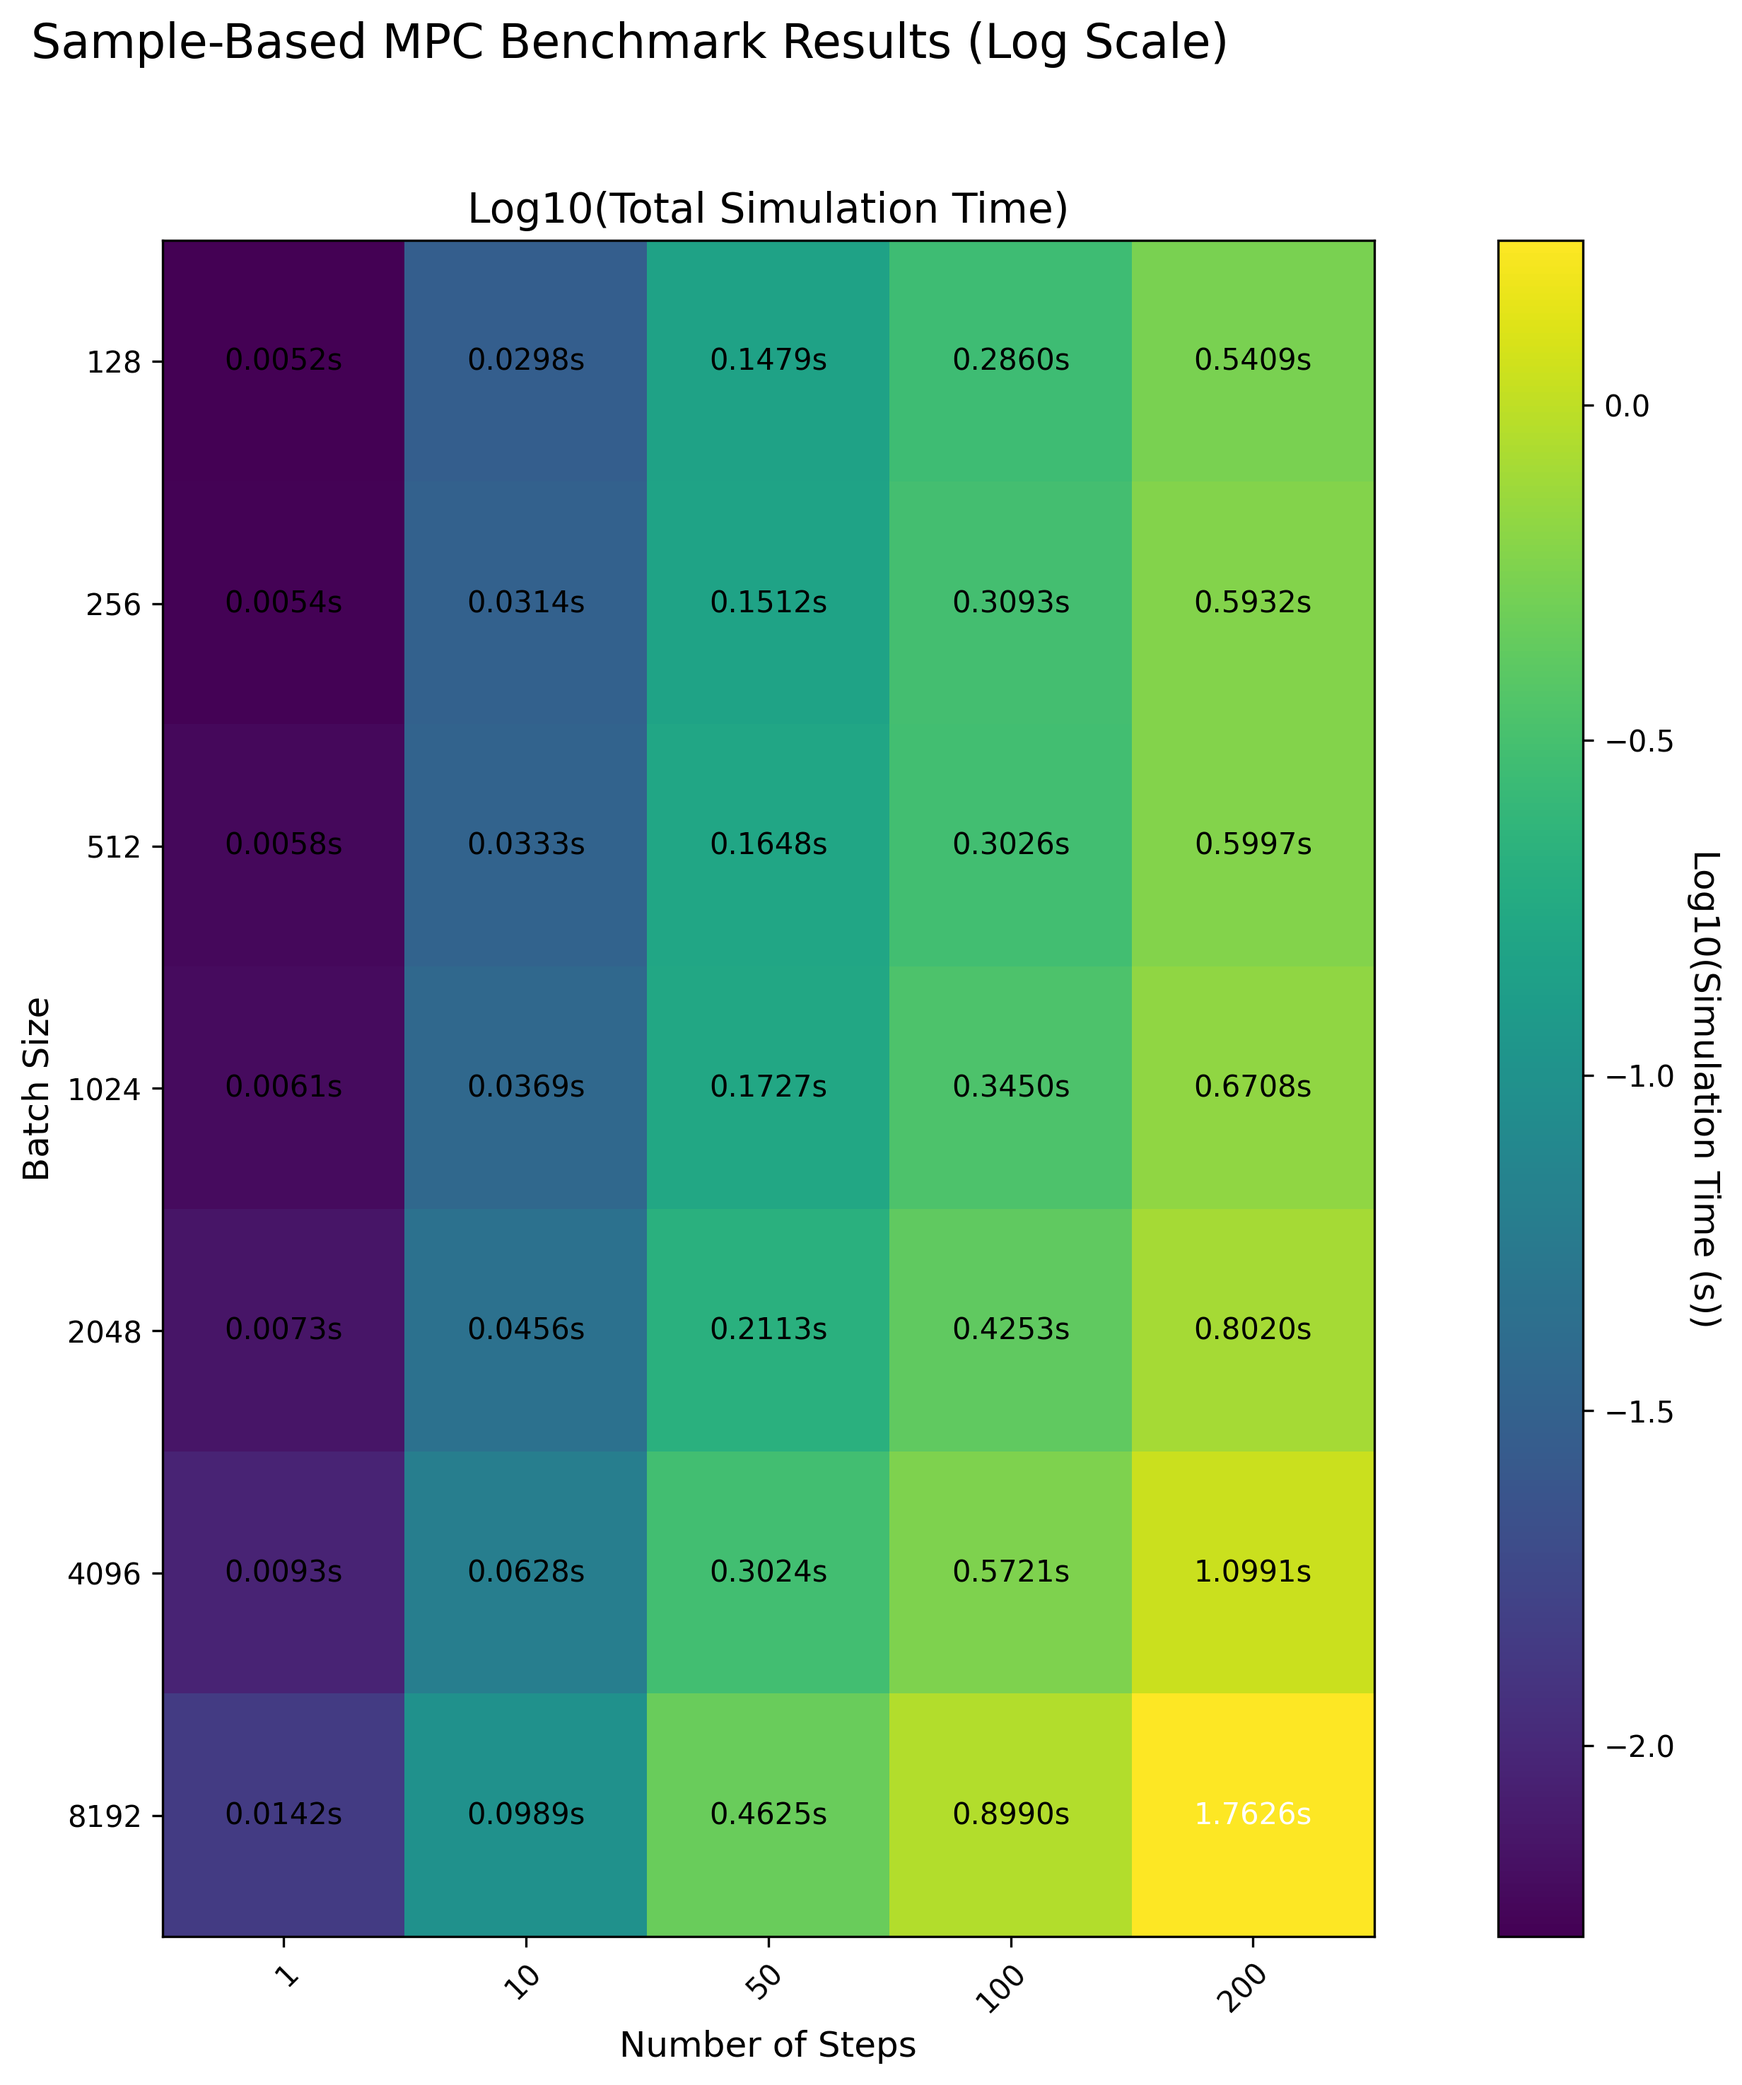
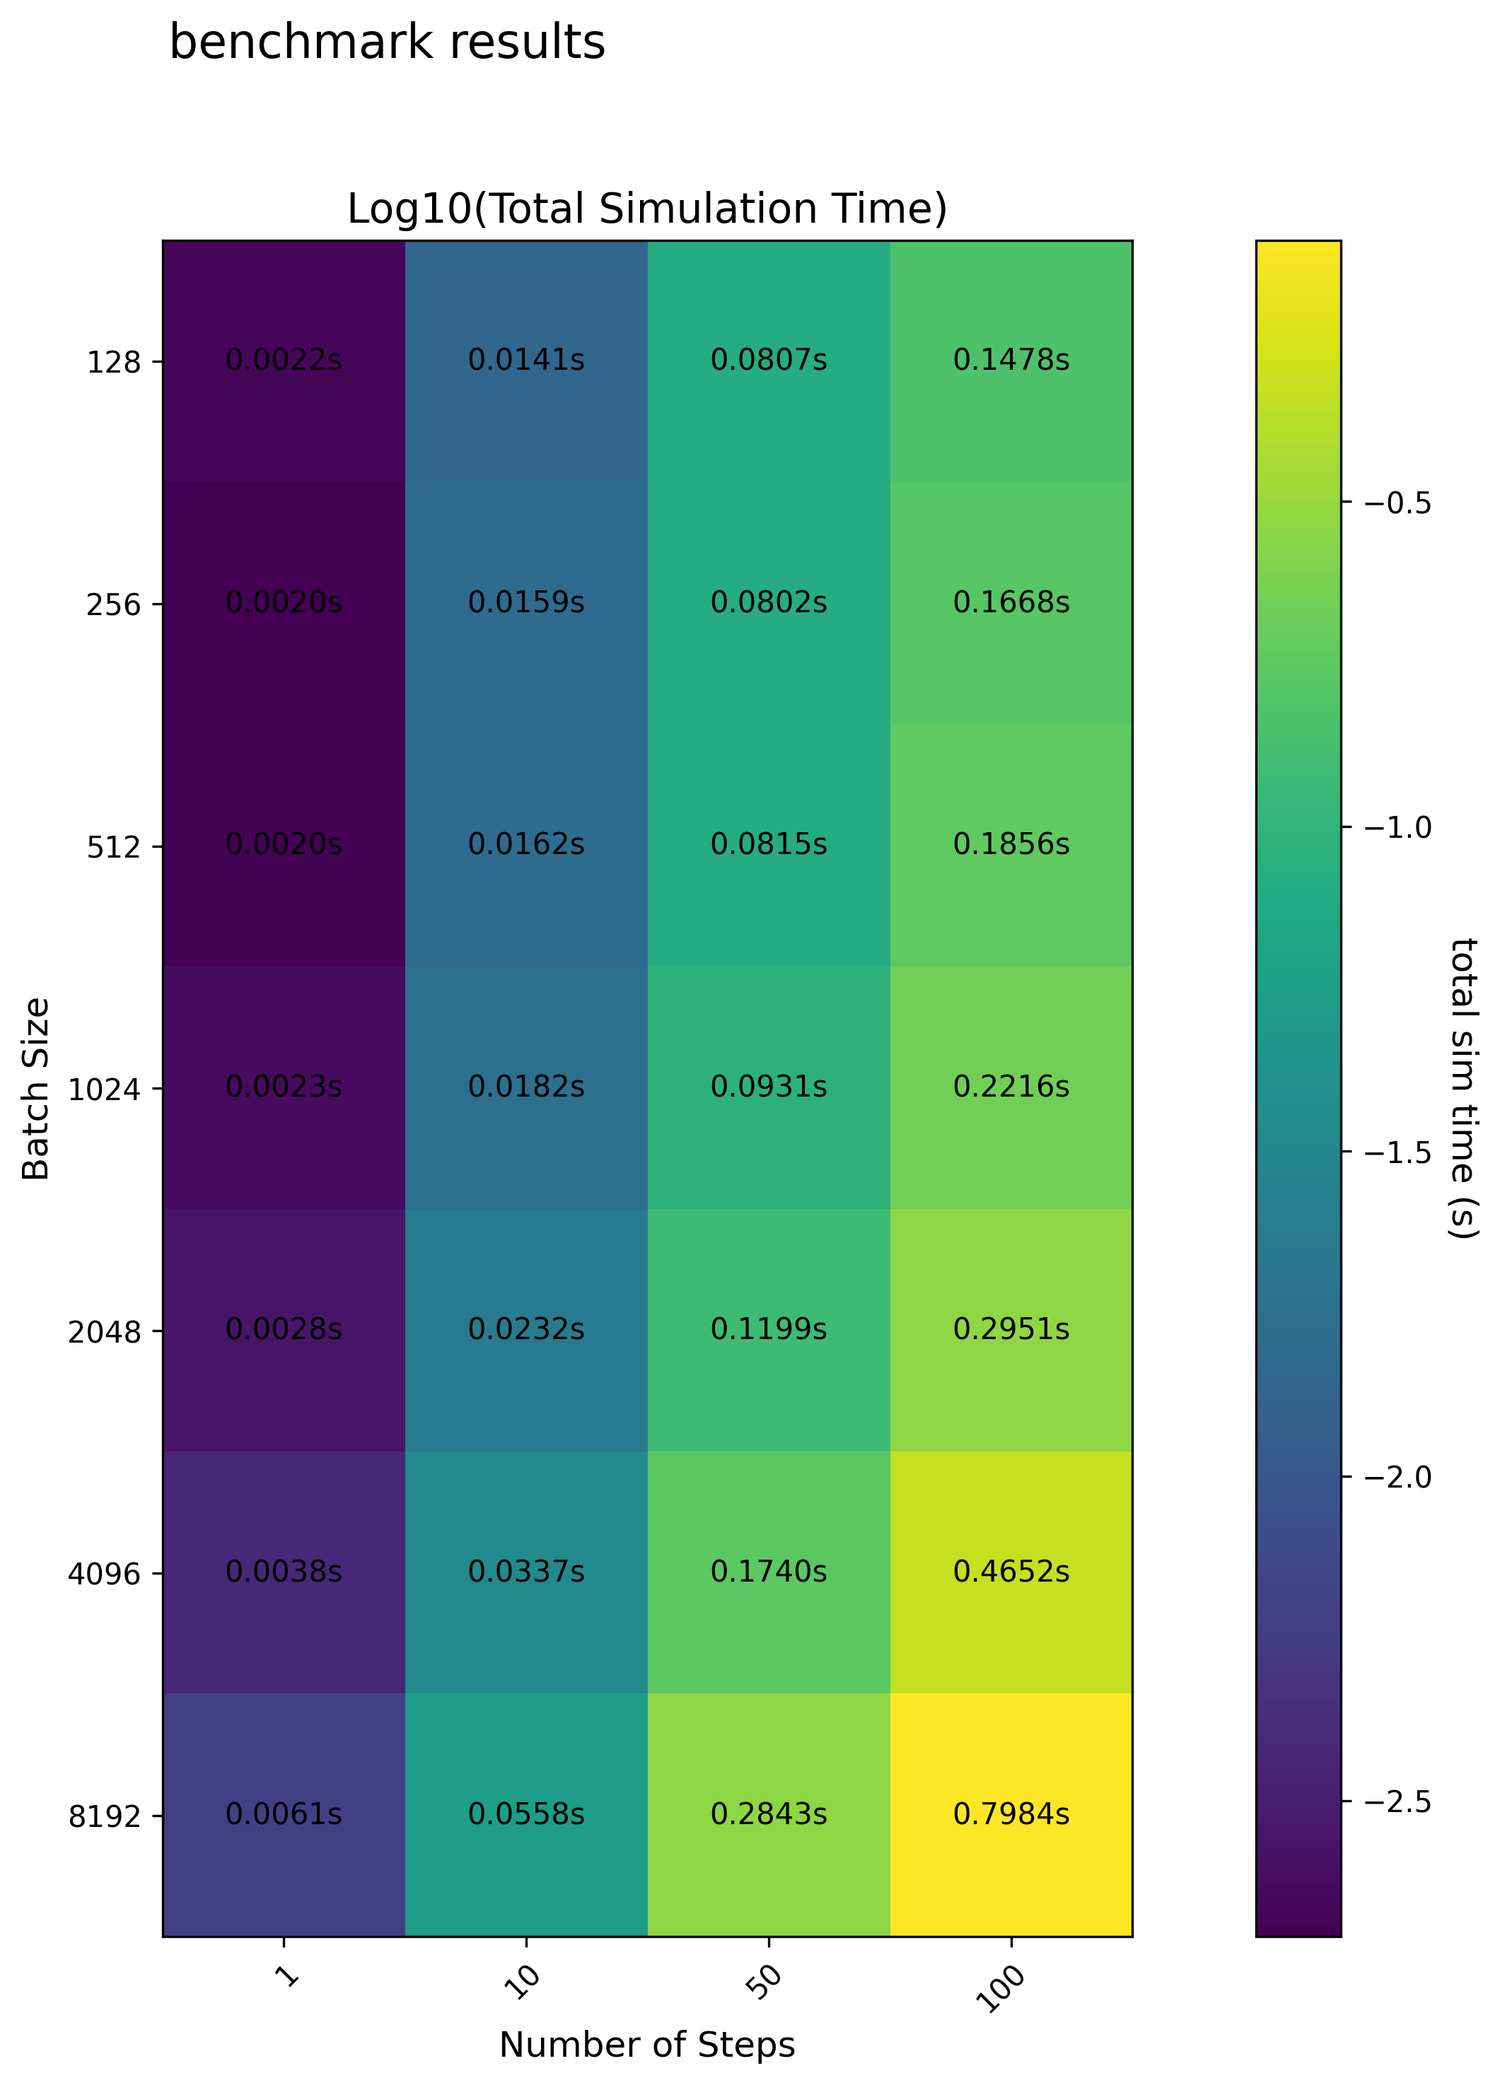
add quadruped with box

diff --git a/contrib/mppi_benchmark.py b/contrib/mppi_benchmark.py
@@ -70,7 +70,7 @@ def get_total_sim_time(mjcf_path, batch_size, nstep):
 
     return run_time
 
-def plot_heatmap(batch_sizes, nsteps, total_times, save_path='benchmark_heatmap.png'):
+def plot_heatmap(batch_sizes, nsteps, total_times, experiment_name, save_path='benchmark_heatmap.png'):
     """Creates and saves a log-scale heatmap visualization of the benchmark results.
     
     Args:
@@ -86,7 +86,7 @@ def plot_heatmap(batch_sizes, nsteps, total_times, save_path='benchmark_heatmap.
     epsilon = 1e-10
     log_times = np.log10(total_times + epsilon)
     im = ax.imshow(log_times, cmap='viridis')
-    ax.set_title("Log10(Total Simulation Time)", fontsize=14)
+    ax.set_title("Total Simulation Time", fontsize=14)
     
     # Show all ticks and label them
     ax.set_xticks(np.arange(len(nsteps)))
@@ -111,15 +111,15 @@ def plot_heatmap(batch_sizes, nsteps, total_times, save_path='benchmark_heatmap.
     
     # Add colorbar
     cbar = ax.figure.colorbar(im, ax=ax)
-    cbar.ax.set_ylabel('Log10(Simulation Time (s))', rotation=-90, va="bottom", fontsize=12)
+    cbar.ax.set_ylabel('total sim time (s)', rotation=-90, va="bottom", fontsize=12)
     
     # Add overall title
-    fig.suptitle("Sample-Based MPC Benchmark Results (Log Scale)", fontsize=16)
+    fig.suptitle(f"{experiment_name} benchmark results", fontsize=16)
     
     # Adjust layout and save
     fig.tight_layout(rect=[0, 0, 1, 0.95])  # Make room for the title
     plt.savefig(save_path, dpi=300, bbox_inches='tight')
-    print(f"Log-scale heatmap saved to {save_path}")
+    print(f"heatmap saved to {save_path}")
 
     return fig
 
@@ -128,11 +128,15 @@ def main(experiment_name):
         mjcf_path = "test_data/humanoid/humanoid.xml"
     elif experiment_name == "quadruped":
         mjcf_path = "test_data/quadruped/scene.xml"
+    elif experiment_name == "quadruped_box":
+        mjcf_path = "test_data/quadruped/scene_box.xml"
+    else:
+        raise ValueError(f"Unknown experiment name: {experiment_name}")
 
     run_benchmark = True
     if run_benchmark:
         batch_sizes = [128, 256, 512, 1024, 2048, 4096, 8192]
-        nsteps = [1, 10, 50, 100, 200]
+        nsteps = [1, 10, 50, 100]
 
         total_times = np.zeros((len(batch_sizes), len(nsteps)))
         for (i, nstep) in enumerate(nsteps):
@@ -154,10 +158,11 @@ def main(experiment_name):
         total_times = data['total_times']
     
     # Plot and save the heatmap
-    plot_heatmap(batch_sizes, nsteps, total_times, save_path=f"contrib/{experiment_name}_benchmark_heatmap.png")
+    plot_heatmap(batch_sizes, nsteps, total_times, experiment_name, save_path=f"contrib/{experiment_name}_benchmark_heatmap.png")
 
     pass 
 
 if __name__ == "__main__":
-    main("humanoid")
-    main("quadruped")
+    # main("humanoid")
+    # main("quadruped")
+    main("quadruped_box")
